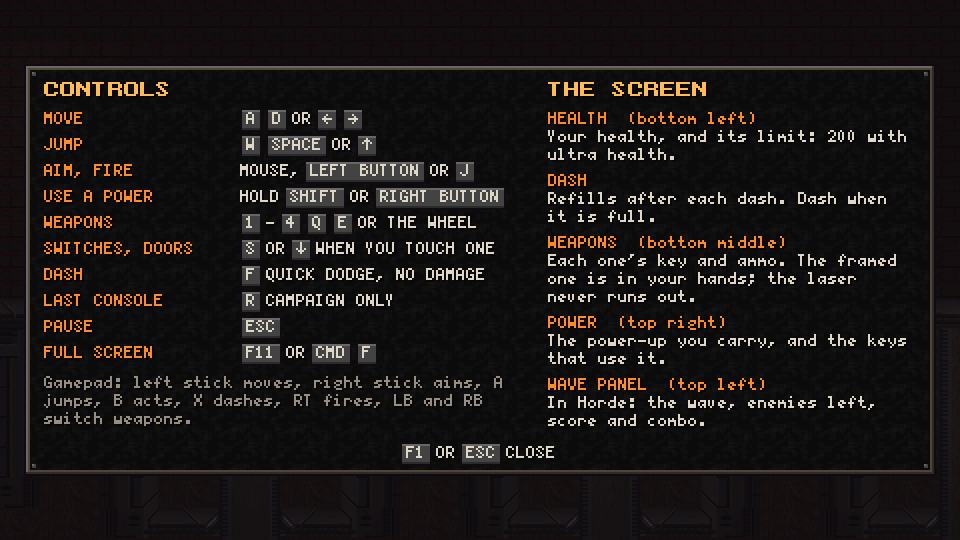
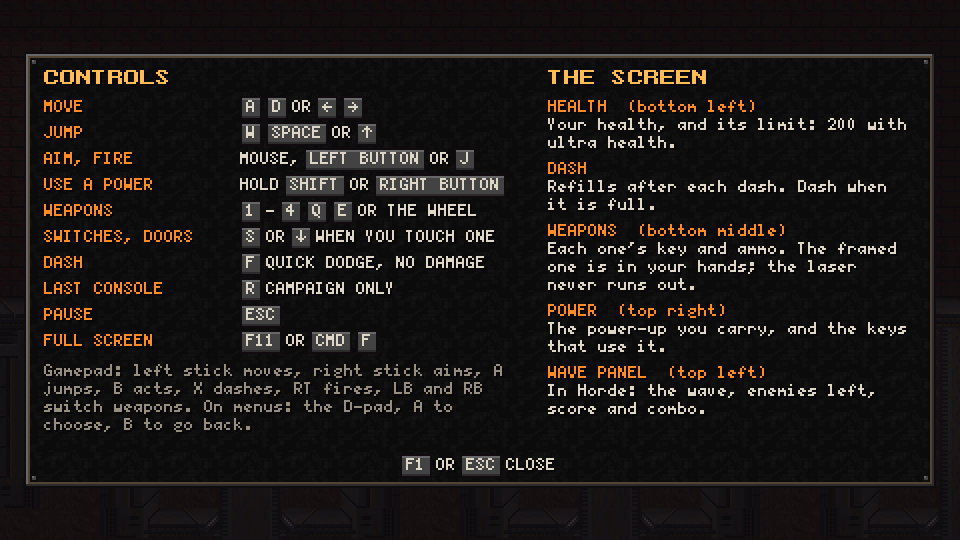
Gamepad on the menus: the D-pad moves, A chooses, B goes back; a roomier controls screen

Changed region(s): [[0.0312, 0.0889, 0.9688, 0.8], [0.0312, 0.8, 0.9688, 0.9185]]

diff --git a/src/abuse_remake/game/app.py b/src/abuse_remake/game/app.py
@@ -327,6 +327,9 @@ class App:
                 self.toggle_fullscreen()  # in every state, and nothing else: no start, no dash
                 return True
             return self.on_key(ev.key)
+        if self.state in ("title", "briefing", "help", "horde_over", "complete", "dead") and (
+                ev.type in (pg.JOYHATMOTION, pg.JOYBUTTONDOWN)):
+            return self._pad_menu(ev)  # the D-pad and A, B drive the menus and screens
         if ev.type == pg.JOYDEVICEADDED and self.joystick is None:
             self.joystick = pg.joystick.Joystick(ev.device_index)
             self.joy_rest = [self.joystick.get_axis(i) for i in range(self.joystick.get_numaxes())]
@@ -365,6 +368,20 @@ class App:
             return self.on_key(pg.K_RETURN)
         elif ev.type == pg.JOYBUTTONDOWN and self.state == "play" and ev.button == 2 and self.modern:
             self.pending_dash = True
+        return True
+
+    def _pad_menu(self, ev) -> bool:
+        """A gamepad on the menus: the D-pad is the arrow keys, A is Enter (Space after a death,
+        as the original asks), B is Esc."""
+        pg = self.pg
+        if ev.type == pg.JOYHATMOTION:
+            hx, hy = ev.value
+            k = pg.K_UP if hy > 0 else pg.K_DOWN if hy < 0 else pg.K_LEFT if hx < 0 else pg.K_RIGHT if hx > 0 else None
+            return self.on_key(k) if k is not None else True
+        if ev.button == 0:
+            return self.on_key(pg.K_SPACE if self.state == "dead" else pg.K_RETURN)
+        if ev.button == 1 and self.state != "title":  # B backs out; on the title it does not quit
+            return self.on_key(pg.K_ESCAPE)
         return True
 
     def toggle_fullscreen(self) -> None:

diff --git a/src/abuse_remake/game/screens.py b/src/abuse_remake/game/screens.py
@@ -28,7 +28,8 @@ CONTROLS = (
     ("PAUSE", [("key", "ESC")]),
     ("FULL SCREEN", [("key", "F11"), "OR", ("key", "CMD"), ("key", "F")]),
 )
-GAMEPAD = "Gamepad: left stick moves, right stick aims, A jumps, B acts, X dashes, RT fires, LB and RB switch weapons."
+GAMEPAD = ("Gamepad: left stick moves, right stick aims, A jumps, B acts, X dashes, RT fires, LB and RB switch "
+           "weapons. On menus: the D-pad, A to choose, B to go back.")
 LEGEND = (
     ("HEALTH  (bottom left)", "Your health, and its limit: 200 with ultra health."),
     ("DASH", "Refills after each dash. Dash when it is full."),
@@ -173,7 +174,7 @@ class Screens:
         t, u = self.t, self.u
         w, h = screen.get_size()
         t.dim(screen, 190)
-        pw, ph = min(456 * u, w - 12 * u), min(206 * u, h - 8 * u)
+        pw, ph = min(456 * u, w - 12 * u), min(218 * u, h - 8 * u)
         panel = pygame.Rect((w - pw) // 2, (h - ph) // 2, pw, ph)
         t.panel(screen, panel)
         left = panel.left + 10 * u

diff --git a/tests/test_menus.py b/tests/test_menus.py
@@ -81,6 +81,19 @@ def test_the_menu_works_with_the_mouse(home):
     assert app.state == "play"
 
 
+def test_a_gamepad_drives_the_menus(home):
+    app = make_app()
+    app._to_title()
+    app.on_event(pygame.event.Event(pygame.JOYHATMOTION, value=(0, -1), joy=0, instance_id=0, hat=0))
+    assert app._menu_key() == "horde"
+    app.on_event(pygame.event.Event(pygame.JOYBUTTONDOWN, button=0, joy=0, instance_id=0))
+    assert app.state == "briefing"
+    app.on_event(pygame.event.Event(pygame.JOYBUTTONDOWN, button=1, joy=0, instance_id=0))
+    assert app.state == "title"
+    app.on_event(pygame.event.Event(pygame.JOYBUTTONDOWN, button=1, joy=0, instance_id=0))
+    assert app.state == "title"  # B never quits from the title
+
+
 def test_switching_mode_keeps_the_menu_on_the_mode_line(home):
     app = make_app()
     app._to_title()
